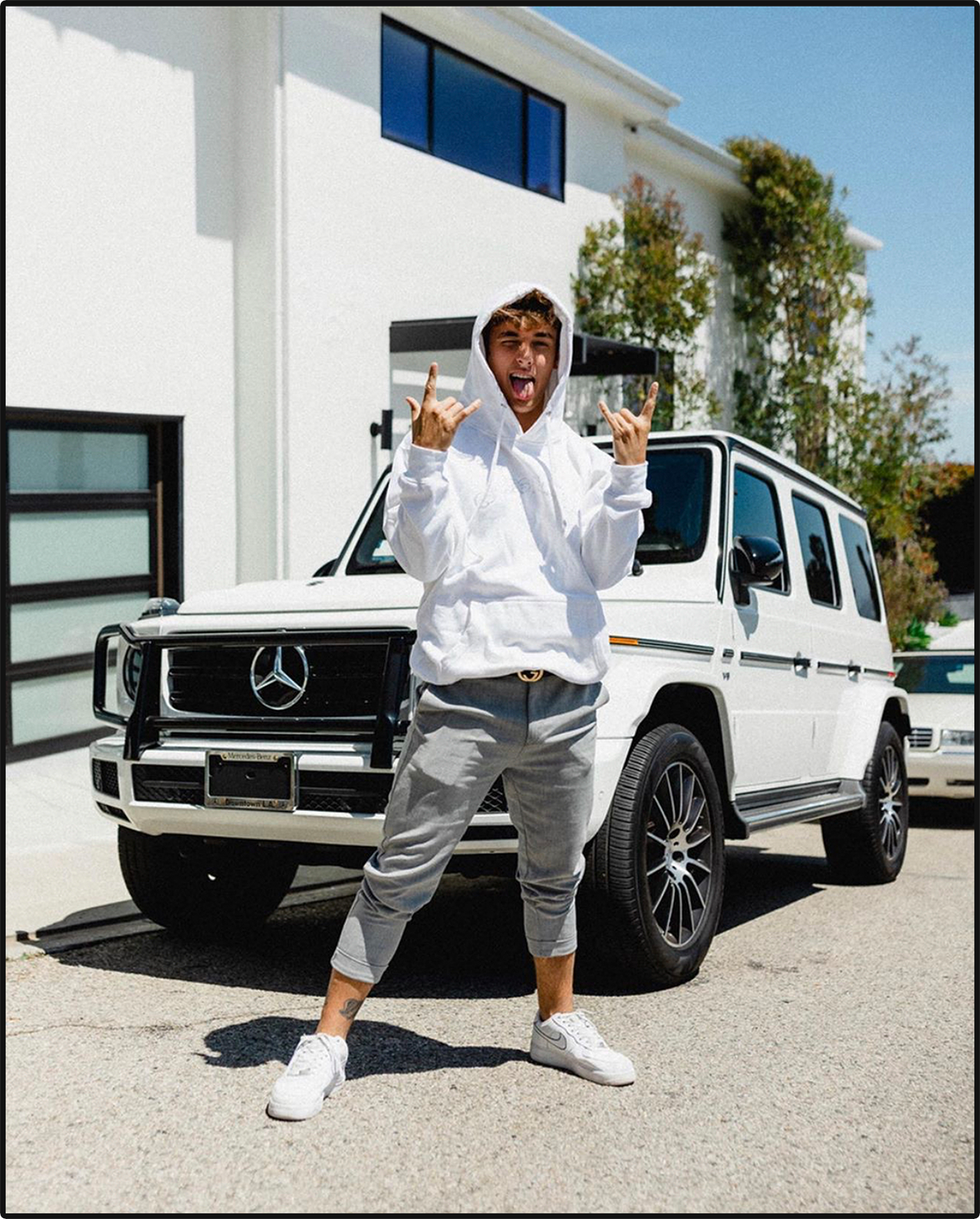
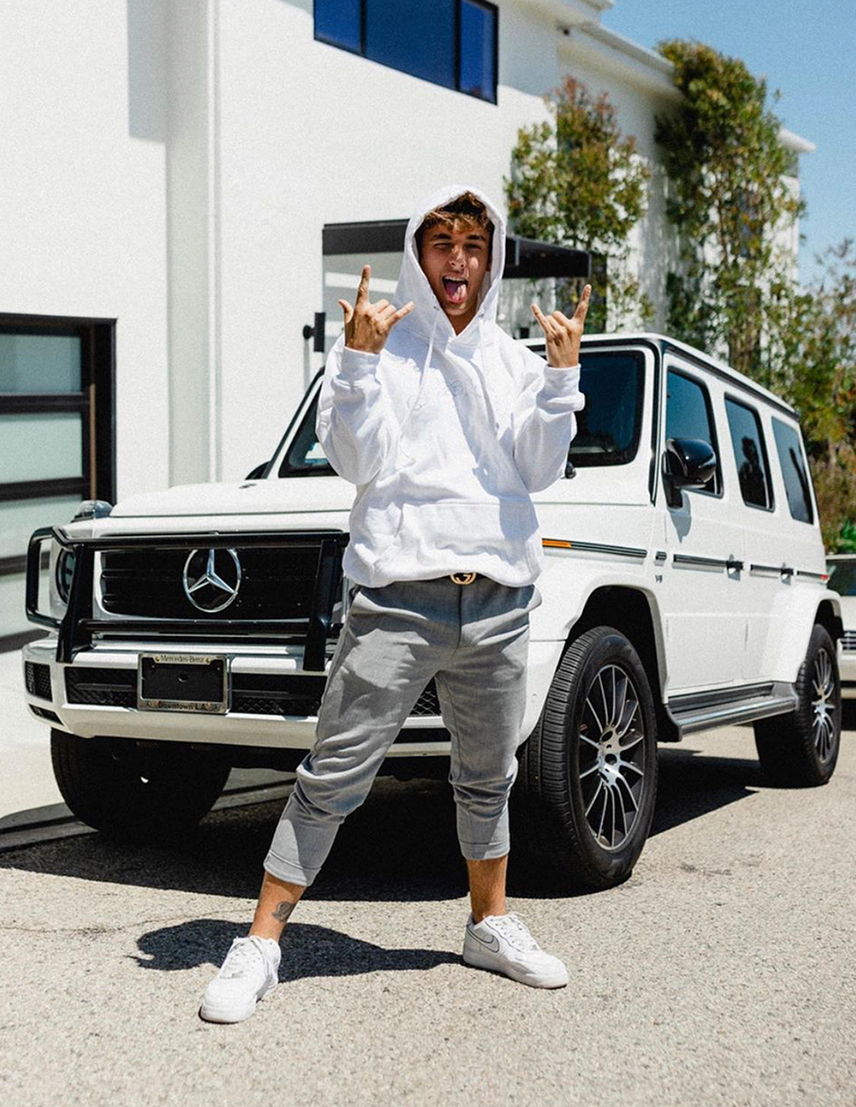
chore(Giveaway): lower dpi version assets

diff --git a/src/scss/index.scss b/src/scss/index.scss
@@ -190,23 +190,56 @@ button.btn, a.btn {
 }
 
 .giveaway {
+  background-color: #efeee9;
+
   &--splash {
-    @media (min-width: 768px) {
+    @media (min-width: 1025px) {
       width: 800px;
     }
 
-    &--image {
-      @media (max-width: 767px) {
+    @media (max-width: 1024px) {
+      width: 600px;
+      bottom: 10%;
+    }
+
+    @media (max-width: 640px) {
+      width: 550px;
+    }
+  }
+
+  &--influencer {
+    @media (max-width: 1024px) {
+      @apply w-full;
+      @apply overflow-hidden;
+      @apply inline-block;
+
+      &--image {
+        @apply w-auto;
+        height: 1100px;
+        min-width: 100%;
         max-width: initial;
-        left: 50%;
+        margin-left: 50%;
         transform: translateX(-50%);
       }
+    }
+
+    @media (max-width: 800px) {
+      height: 1000px;
     }
   }
 
   &--content {
-    text-shadow: 0 0 6px rgba(255, 255, 255, 1);
-    line-height: 1.15;
+    text-shadow: 0 0 8px rgba(0, 0, 0, .65);
+
+    &--image {
+      @media (max-width: 1024px) {
+        width: 50px;
+      }
+    }
+
+    &--desc {
+      line-height: 1.15;
+    }
   }
 }
 
